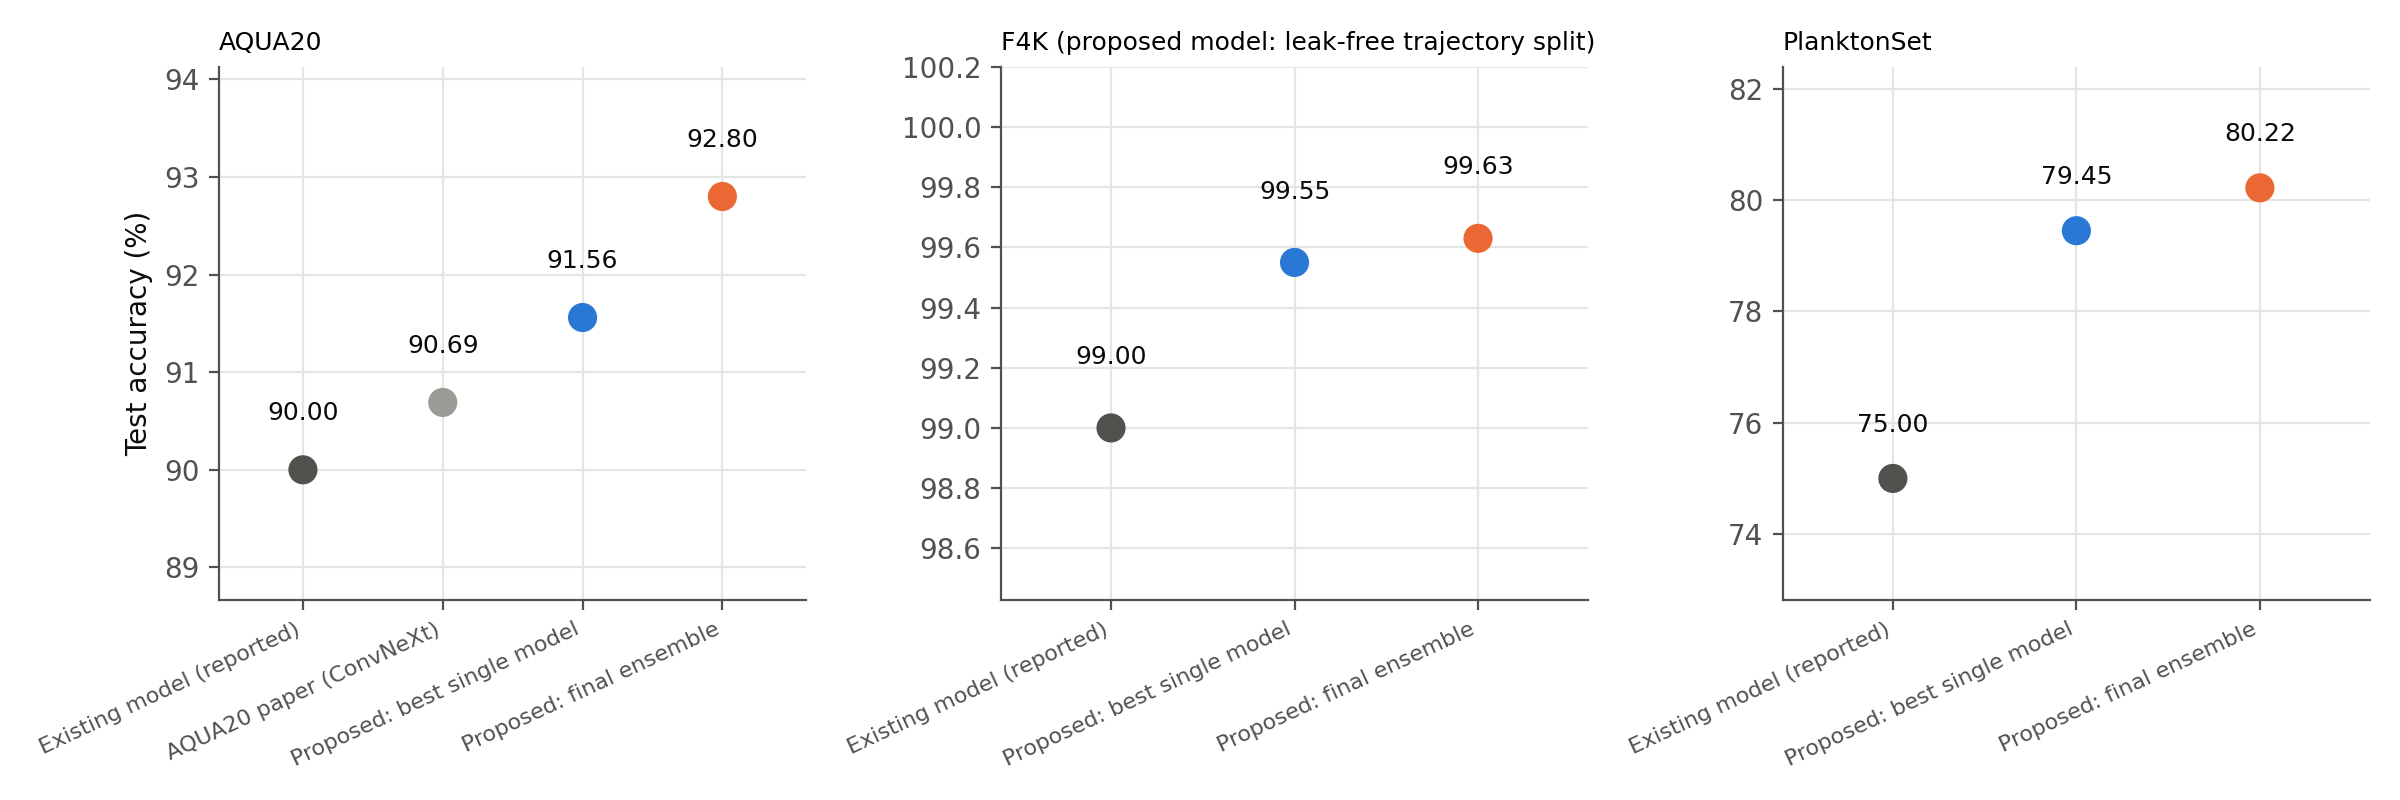
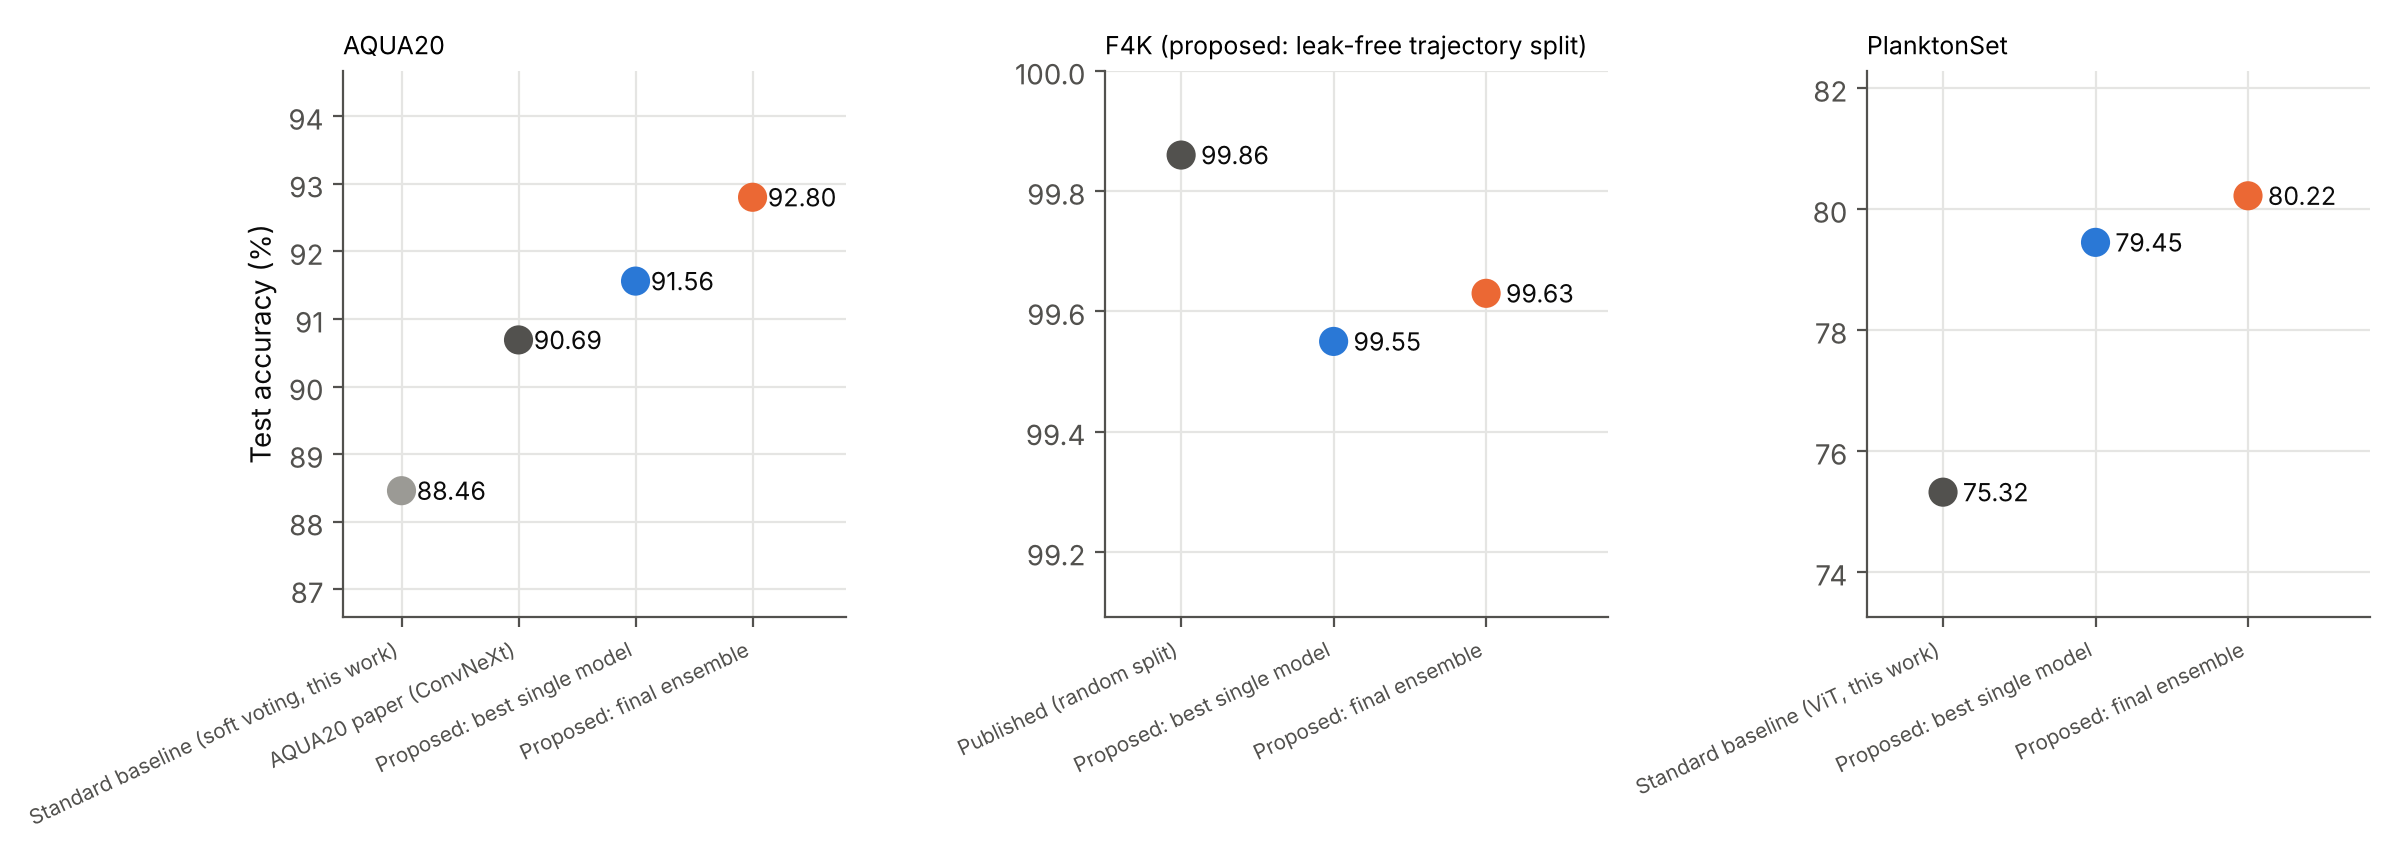
Compare against published results and a standard baseline trained here
Claude-Session: https://claude.ai/code/session_01BYKBgB9e5NSJeHHCjZyomy

diff --git a/figures/make_figures.py b/figures/make_figures.py
@@ -35,21 +35,23 @@ ours_single = {"AQUA20": 100 * sa[~sa["TTA"]]["acc_mean"].max(),
 ours_final = {"AQUA20": 100 * sig_a["acc_ens"].iloc[0],
               "F4K": 100 * sig_fp[sig_fp.dataset == "f4k"]["acc_final"].iloc[0],
               "PlanktonSet": 100 * sig_fp[sig_fp.dataset == "plankton"]["acc_final"].iloc[0]}
-existing = {"AQUA20": 90.0, "F4K": 99.0, "PlanktonSet": 75.0}      # existing model: best reported accuracy per dataset
-ds = list(existing)
-fig, axes = plt.subplots(1, 3, figsize=(12, 4))
-for ax, k in zip(axes, ds):
-    vals = [existing[k], ours_single[k], ours_final[k]]
-    labels = ["Existing model (reported)", "Proposed: best single model", "Proposed: final ensemble"]
-    if k == "AQUA20":
-        vals.insert(1, 90.69); labels.insert(1, "AQUA20 paper (ConvNeXt)")
-    cols = [MUTED, "#9b9a95", BLUE, ORANGE][-len(vals):] if k == "AQUA20" else [MUTED, BLUE, ORANGE]
+# reference points (hard-coded): standard baseline = this work's equal soft voting / ViT with the baseline recipe;
+# published = Fuad et al. (AQUA20, ConvNeXt) and Ben Tamou et al. 2022 (F4K, random image-level split)
+refs = {"AQUA20":      [("Standard baseline\n(soft voting, this work)", 88.46), ("AQUA20 paper\n(ConvNeXt)", 90.69)],
+        "F4K":         [("Published\n(random split)", 99.86)],
+        "PlanktonSet": [("Standard baseline\n(ViT, this work)", 75.32)]}
+fig, axes = plt.subplots(1, 3, figsize=(12, 4.3))
+for ax, k in zip(axes, ["AQUA20", "F4K", "PlanktonSet"]):
+    labels = [r[0] for r in refs[k]] + ["Proposed:\nbest single model", "Proposed:\nfinal ensemble"]
+    vals = [r[1] for r in refs[k]] + [ours_single[k], ours_final[k]]
+    cols = (["#9b9a95", MUTED] if k == "AQUA20" else [MUTED]) + [BLUE, ORANGE]
     ax.scatter(range(len(vals)), vals, s=90, color=cols, zorder=3)          # dot plot: axis does not start at 0
     for i, v in enumerate(vals):
-        ax.text(i, v + 0.12 * (max(vals) - min(vals) + 1), f"{v:.2f}", ha="center", va="bottom", fontsize=9, color=INK)
-    pad = 0.35 * (max(vals) - min(vals) + 1); ax.set_ylim(min(vals) - pad, max(vals) + pad); ax.set_xlim(-0.6, len(vals) - 0.4)
-    ax.set_xticks(range(len(vals))); ax.set_xticklabels(labels, rotation=25, ha="right", fontsize=8)
-    ax.set_title(k + (" (proposed model: leak-free trajectory split)" if k == "F4K" else ""), fontsize=9, loc="left")
+        ax.text(i + 0.13, v, f"{v:.2f}", ha="left", va="center", fontsize=9, color=INK)       # label to the right of the dot
+    pad = 0.35 * (max(vals) - min(vals) + 1); ax.set_ylim(min(vals) - pad, min(max(vals) + pad, 100.0) if max(vals) > 99 else max(vals) + pad)
+    ax.set_xlim(-0.5, len(vals) - 0.2)
+    ax.set_xticks(range(len(vals))); ax.set_xticklabels([l.replace("\n", " ") for l in labels], rotation=25, ha="right", fontsize=7.5)
+    ax.set_title(k + (" (proposed: leak-free trajectory split)" if k == "F4K" else ""), fontsize=9, loc="left")
     ax.set_ylabel("Test accuracy (%)" if k == "AQUA20" else "")
 plt.tight_layout(); plt.savefig(f"{OUT}/fig1_ours_vs_published.png", dpi=200); plt.show()
 
@@ -86,12 +88,12 @@ ax.set_xlabel("Predicted class"); ax.set_ylabel("True class (training images)")
 ax.set_title("Proposed final AQUA20 model: row-normalised confusion matrix (classes ordered by training size)", fontsize=10, loc="left")
 plt.colorbar(im, fraction=0.04); plt.tight_layout(); plt.savefig(f"{OUT}/fig3_confusion_final_aqua20.png", dpi=200); plt.show()
 
-# ---------- Figure 4: per-class F1, proposed final model vs existing model (ViT) ----------
+# ---------- Figure 4: per-class F1, proposed final model vs ViT ----------
 pv = test_probs("vit_orig_improved_ce_none_s42").argmax(1)
 f_fin = f1_score(yt, pred_f, labels=order, average=None, zero_division=0)
 f_vit = f1_score(yt, pv, labels=order, average=None, zero_division=0)
 fig, ax = plt.subplots(figsize=(11, 4.2)); xx = np.arange(NUM)
-ax.bar(xx - 0.2, f_vit, 0.4, color=MUTED, label="Existing model (ViT-B/16)")
+ax.bar(xx - 0.2, f_vit, 0.4, color=MUTED, label="ViT-B/16 (improved recipe)")
 ax.bar(xx + 0.2, f_fin, 0.4, color=BLUE, label="Proposed final ensemble")
 ax.set_xticks(xx); ax.set_xticklabels([names[k] for k in order], rotation=60, ha="right", fontsize=8)
 ax.set_ylabel("Test F1"); ax.set_ylim(0, 1.05); ax.legend(frameon=False, loc="lower left")
@@ -111,7 +113,7 @@ def rel(p, y, bins=15):
 fig, ax = plt.subplots(figsize=(5, 5))
 ax.plot([0, 1], [0, 1], color=MUTED, linestyle="--", linewidth=1, label="Perfect calibration")
 pb = test_probs("vit_orig_btech_ce_none_s42"); pi = test_probs("vit_orig_improved_ce_none_s42")
-for p, c, lab in [(pb, MUTED, "Existing model (ViT, original recipe)"), (pi, YELLOW, "ViT, improved recipe (label smoothing)"),
+for p, c, lab in [(pb, MUTED, "ViT, baseline recipe"), (pi, YELLOW, "ViT, improved recipe (label smoothing)"),
                   (pf, BLUE, "Proposed calibrated ensemble")]:
     xs, accs, e = rel(p, yt); ax.plot(xs, accs, marker="o", markersize=5, linewidth=2, color=c, label=f"{lab} (ECE {e:.2f})")
 ax.set_xlabel("Predicted confidence"); ax.set_ylabel("Observed accuracy"); ax.set_xlim(0, 1); ax.set_ylim(0, 1)

diff --git a/README.md b/README.md
@@ -6,13 +6,13 @@ A leak-free, statistically tested pipeline for underwater image classification o
 
 ## Headline results
 
-| Dataset | Existing model (reported) | Best published | **Proposed final model** | Macro-F1 | ECE |
+| Dataset | Best published | Standard baseline (this work) | **Proposed final model** | Macro-F1 | ECE |
 |---|---|---|---|---|---|
-| AQUA20 (20 classes) | 90.0% | 90.69% (ConvNeXt, AQUA20 paper) | **92.80%** | 0.897 | 0.02 |
-| F4K (23 species, leak-free split) | 99.0% | – | **99.63%** | 0.947 | 0.004 |
-| PlanktonSet (121 classes) | 75.0% | – | **80.22%** | 0.711 | 0.026 |
+| AQUA20 (20 classes) | 90.69% (ConvNeXt, AQUA20 paper) | 88.46% | **92.80%** | 0.897 | 0.021 |
+| F4K (23 species, leak-free split) | 99.86% (random image-level split) | – | **99.63%** | 0.947 | 0.004 |
+| PlanktonSet (121 classes) | – | 75.32% | **80.22%** | 0.711 | 0.026 |
 
-*Existing model* = ViT-B/16 + CNN soft-voting ensemble (ResNet-18, ResNet-50, DenseNet-121, ViT-B/16) trained with a standard recipe (Adam, constant learning rate, plain cross-entropy).
+*Standard baseline* = ResNet-18, ResNet-50, DenseNet-121 and ViT-B/16 fine-tuned with a common recipe (Adam, constant learning rate, plain cross-entropy) and combined by equal soft voting (AQUA20), or ViT-B/16 with the same recipe (PlanktonSet), trained here on the same leak-free splits. The published F4K value was obtained on a random split, which leaks video frames between training and test, so it is not directly comparable.
 
 - **AQUA20:** the final model beats the best published result (90.69%) by 2.1 points. Against ViT-B/16 it is right on 65 images where ViT is wrong, versus 24 the other way (McNemar p < 0.0001). Against the best single model, the macro-F1 gain is significant (+0.019, 95% CI [+0.002, +0.041]).
 - **F4K:** 15 errors in 4,022 test images. Against ViT: 20 vs 5 (p = 0.004), macro-F1 95% CI [+0.032, +0.057].
@@ -28,8 +28,8 @@ A leak-free, statistically tested pipeline for underwater image classification o
 
 ## Figures
 
-**Proposed model vs existing model and best published result**
-![Results vs existing and published models](figures/fig1_ours_vs_published.png)
+**Proposed model vs published results and the standard baseline**
+![Results vs published results and baseline](figures/fig1_ours_vs_published.png)
 
 **CLAHE vs original images, 3 seeds per backbone (AQUA20)**
 ![CLAHE vs original](figures/fig2_clahe_vs_original_seeds.png)
@@ -37,7 +37,7 @@ A leak-free, statistically tested pipeline for underwater image classification o
 **Confusion matrix of the final AQUA20 model** (classes ordered by number of training images)
 ![Confusion matrix](figures/fig3_confusion_final_aqua20.png)
 
-**F1 per class: proposed final ensemble vs existing model (ViT-B/16)**
+**F1 per class: proposed final ensemble vs ViT-B/16**
 ![Per-class F1](figures/fig4_perclass_f1_aqua20.png)
 
 **Reliability diagram:** the proposed calibrated ensemble is closest to perfect calibration (15 bins; bins with fewer than 10 images not drawn)
